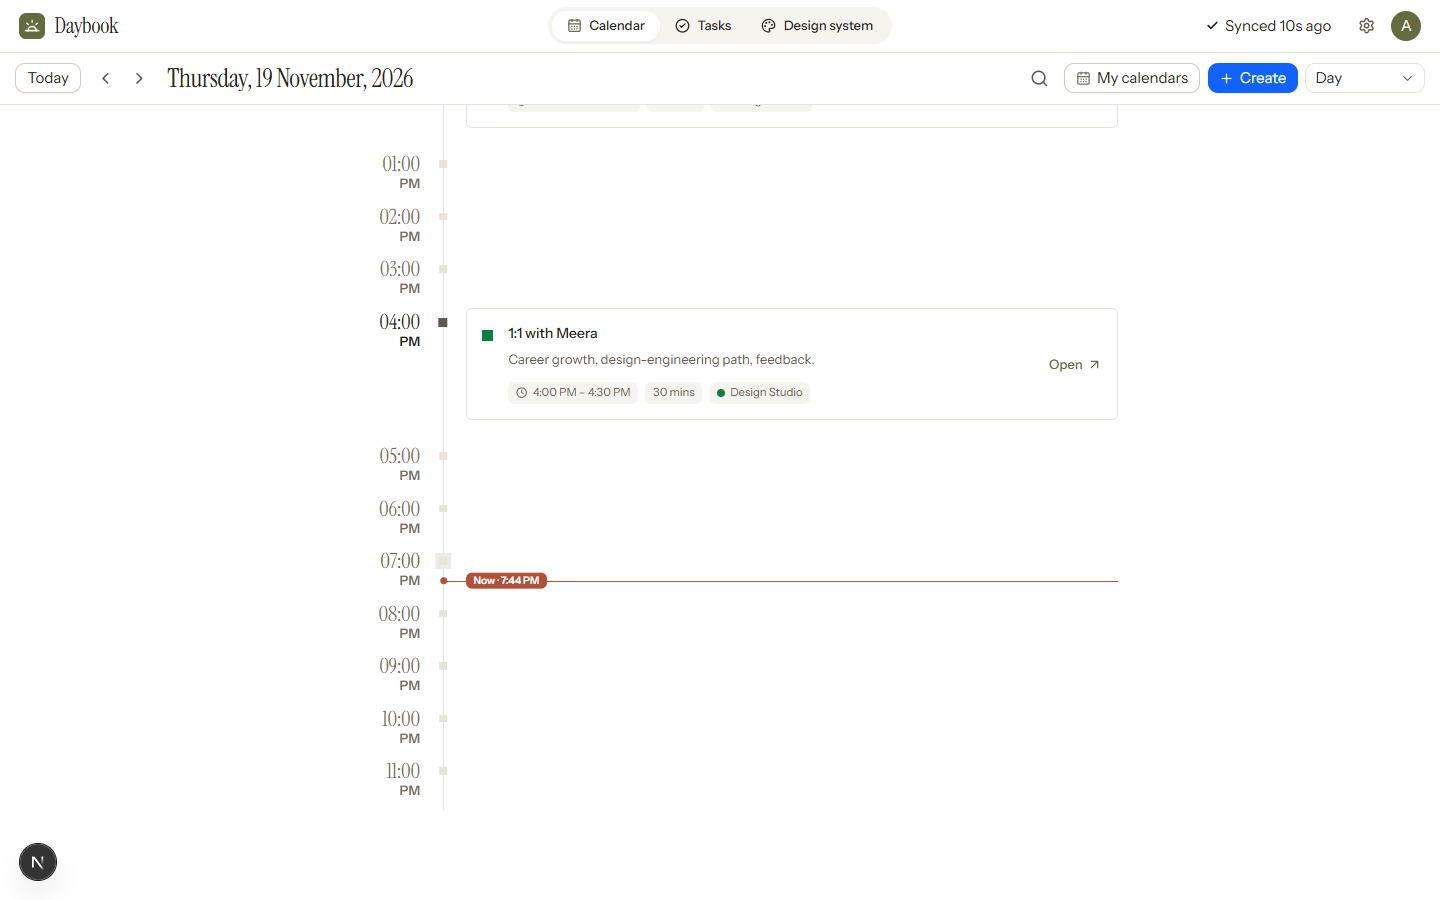
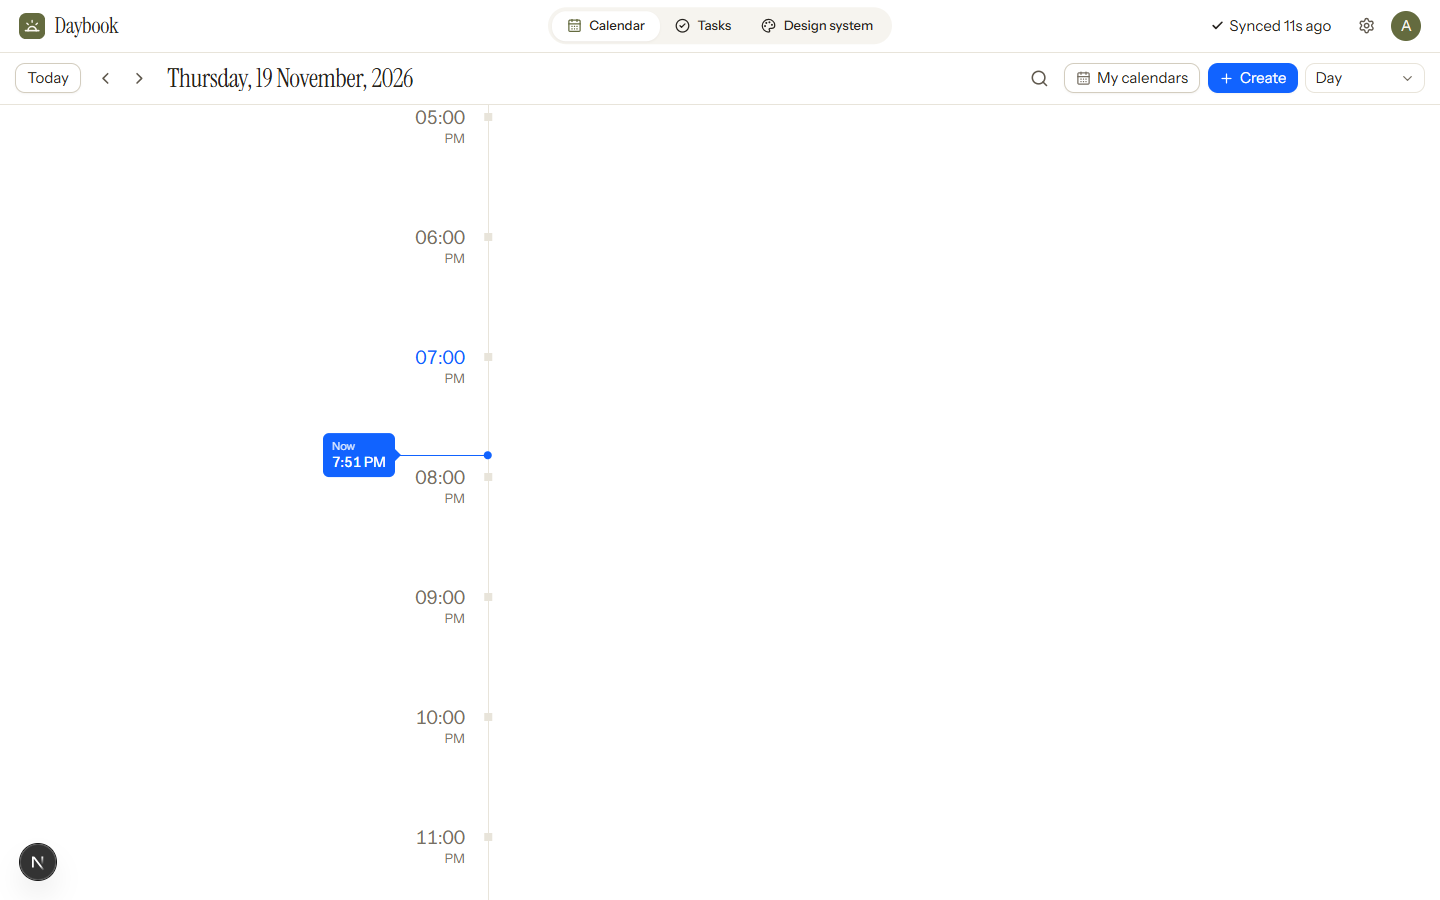
Day timeline: equal hours, UI font, blue Now tag, simpler cards
Every hour is the same height with events at their real time. Hour
labels use the UI font at normal weight. The Now tag is the primary
colour, stacked, and sits left of the rail. Cards drop the Open button
and the Done label.

diff --git a/components/calendar/DayTimeline.tsx b/components/calendar/DayTimeline.tsx
@@ -1,10 +1,10 @@
 "use client";
 import { useEffect, useMemo, useRef, type ReactNode } from "react";
-import { ArrowUpRight, Clock, MapPin } from "lucide-react";
+import { Clock, MapPin } from "lucide-react";
 import { cn } from "@/lib/cn";
 import { zoned } from "@/lib/dates";
 import { useCalendarViews, useFmt, useNow, useToday, useTz } from "@/lib/hooks";
-import { byDay } from "@/lib/layout";
+import { byDay, layoutDay, type Placed } from "@/lib/layout";
 import { newDraft } from "@/lib/store/eventActions";
 import { usePrefs } from "@/lib/store/prefs";
 import { toRect, useUI } from "@/lib/store/ui";
@@ -14,9 +14,13 @@ import { evTitle, evVars } from "./TimeGrid";
 
 const isBanner = (i: EventInstance) => i.allDay || i.startDate !== i.endDate;
 
+/** Every hour is exactly this tall, with or without events. Events sit at their real time inside it. */
+const HOUR = "8rem";
+const at = (minutes: number) => `calc(${HOUR} * ${minutes / 60})`;
+
 /**
- * Day view as a timeline: a rail with a big label for every hour, and tall cards
- * for the events that start in that hour. A "Now" tag sits between the cards.
+ * Day view as a timeline: a rail with a big label for every hour, and outlined cards
+ * placed at the time they start. Hours are all the same height.
  */
 export function DayTimeline({ anchor }: { anchor: DateKey }) {
   const fmt = useFmt();
@@ -31,26 +35,23 @@ export function DayTimeline({ anchor }: { anchor: DateKey }) {
   const openPopover = useUI((s) => s.openEventPopover);
   const openEditor = useUI((s) => s.openEventEditor);
   const scroller = useRef<HTMLDivElement>(null);
+  const body = useRef<HTMLDivElement>(null);
 
   const list = useMemo(() => byDay(instances, [anchor]).get(anchor) ?? [], [instances, anchor]);
   const banners = list.filter(isBanner);
-  const timed = useMemo(
-    () =>
-      list
-        .filter((i) => !isBanner(i))
-        .map((i) => ({ i, startMin: zoned(i.start, tz).minutes }))
-        .sort((a, b) => a.startMin - b.startMin),
-    [list, tz]
-  );
+  const placed = useMemo(() => layoutDay(list.filter((i) => !isBanner(i)), anchor, tz), [list, anchor, tz]);
   const isToday = anchor === today;
   const nowMin = zoned(now, tz).minutes;
   const calName = (id: string) => cals.find((c) => c.id === id)?.name ?? "";
 
   // open on the working day: a little before now when viewing today, otherwise 7 AM
   useEffect(() => {
+    const sc = scroller.current;
+    const el = body.current;
+    if (!sc || !el) return;
     const target = isToday ? Math.max(0, Math.floor(zoned(Date.now(), tz).minutes / 60) - 2) : 7;
-    const el = scroller.current?.querySelector<HTMLElement>(`[data-hour="${target}"]`);
-    if (el && scroller.current) scroller.current.scrollTop = el.offsetTop - 8;
+    const hourPx = el.offsetHeight / 24;
+    sc.scrollTop = el.getBoundingClientRect().top - sc.getBoundingClientRect().top + sc.scrollTop + target * hourPx - 8;
   }, [anchor, isToday, tz]);
 
   const label = (h: number) => {
@@ -58,113 +59,138 @@ export function DayTimeline({ anchor }: { anchor: DateKey }) {
     return { big: `${String(h % 12 || 12).padStart(2, "0")}:00`, small: h < 12 ? "AM" : "PM" };
   };
 
-  const card = (i: EventInstance) => {
+  const hours = Array.from({ length: 24 }, (_, h) => h);
+  const hasEvent = (h: number) => placed.some((p) => p.top < (h + 1) * 60 && p.bottom > h * 60);
+
+  /** An event card. `mins` is its height on the timeline; short events show less. */
+  const Card = ({ i, mins, className, style }: { i: EventInstance; mins: number; className?: string; style?: React.CSSProperties }) => {
     const done = doneIds.has(i.event.id);
     const current = isToday && !i.allDay && i.start <= now && now < i.end;
-    const mins = i.allDay ? 0 : Math.round((i.end - i.start) / 60000);
+    const duration = i.allDay ? 0 : Math.round((i.end - i.start) / 60000);
+    const short = mins < 45;
     return (
       <button
-        key={i.key}
         type="button"
         data-event
         onClick={(e) => openPopover(i, toRect(e.currentTarget.getBoundingClientRect()))}
-        style={evVars(colorOf(i))}
+        style={{ ...evVars(colorOf(i)), ...style }}
         className={cn(
-          "flex w-full items-start gap-4 rounded-sm border bg-surface p-4 text-left outline-none transition-colors hover:bg-surface-2 focus-visible:ring-2 focus-visible:ring-accent",
-          current ? "border-2 border-[var(--ev)]" : "border-border"
+          "overflow-hidden rounded-sm border bg-surface text-left outline-none transition-colors hover:bg-surface-2 focus-visible:ring-2 focus-visible:ring-accent",
+          short ? "flex items-center gap-2.5 px-3" : "p-3.5",
+          current ? "border-2 border-[var(--ev)]" : "border-border",
+          className
         )}
       >
-        <span className="mt-1.5 size-3 shrink-0 bg-[var(--ev)]" />
-        <span className="min-w-0 flex-1">
-          <span className="flex flex-wrap items-center gap-x-3 gap-y-1">
-            <span className={cn(evTitle, done && "line-through")}>{i.title}</span>
-            {done && <span className="text-xs font-semibold uppercase tracking-wide text-success">✓ Done</span>}
-            {current && !done && <span className="text-xs font-semibold uppercase tracking-wide text-text-2">Happening now</span>}
+        {short ? (
+          <>
+            <span className="size-2.5 shrink-0 bg-[var(--ev)]" />
+            <span className={cn("min-w-0 truncate", evTitle, done && "line-through")}>{i.title}</span>
+            <span className="tnum ml-auto shrink-0 text-xs text-text-2">{i.allDay ? "All day" : fmt.timeRange(i.start, i.end)}</span>
+          </>
+        ) : (
+          <span className="flex items-start gap-3">
+            <span className="mt-1.5 size-3 shrink-0 bg-[var(--ev)]" />
+            <span className="min-w-0 flex-1">
+              <span className={cn("block truncate", evTitle, done && "line-through")}>{i.title}</span>
+              {mins >= 90 && i.event.description && <span className="mt-1 line-clamp-2 block text-sm leading-relaxed text-text-2">{i.event.description}</span>}
+              <span className="mt-2.5 flex flex-wrap items-center gap-2 text-xs text-text-2">
+                <Chip icon={<Clock className="size-3" />}>{i.allDay ? "All day" : fmt.timeRange(i.start, i.end)}</Chip>
+                {duration > 0 && <Chip>{duration >= 60 && duration % 60 === 0 ? `${duration / 60} hr` : `${duration} mins`}</Chip>}
+                <Chip dot={colorOf(i)}>{calName(i.calendarId)}</Chip>
+                {i.event.location && <Chip icon={<MapPin className="size-3" />}>{i.event.location}</Chip>}
+              </span>
+            </span>
           </span>
-          {i.event.description && <span className="mt-1.5 line-clamp-2 block text-sm leading-relaxed text-text-2">{i.event.description}</span>}
-          <span className="mt-3 flex flex-wrap items-center gap-2 text-xs text-text-2">
-            <Chip icon={<Clock className="size-3" />}>{i.allDay ? "All day" : fmt.timeRange(i.start, i.end)}</Chip>
-            {mins > 0 && <Chip>{mins >= 60 && mins % 60 === 0 ? `${mins / 60} hr` : `${mins} mins`}</Chip>}
-            <Chip dot={colorOf(i)}>{calName(i.calendarId)}</Chip>
-            {i.event.location && <Chip icon={<MapPin className="size-3" />}>{i.event.location}</Chip>}
-          </span>
-        </span>
-        <span className="hidden shrink-0 items-center gap-1 self-center text-sm font-medium text-accent sm:flex">
-          Open <ArrowUpRight className="size-4" />
-        </span>
+        )}
       </button>
     );
   };
 
-  /** The "Now" marker. In flow between cards, or placed at the minute inside an empty hour. */
-  const nowTag = (topPct?: number) => (
-    <div
-      key="now"
-      className={topPct === undefined ? "relative my-1 h-0" : "absolute inset-x-0 h-0"}
-      style={topPct === undefined ? undefined : { top: `${topPct}%` }}
-      aria-label={`Now, ${fmt.time(now)}`}
-    >
-      <div className="absolute -left-6 right-0 top-0 h-px bg-danger" />
-      <div className="absolute -left-6 top-0 size-2 -translate-x-1/2 -translate-y-1/2 rounded-full bg-danger" />
-      <div className="absolute left-0 top-0 z-[1] -translate-y-1/2 rounded-sm bg-danger px-2 py-0.5 text-[0.6875rem] font-semibold leading-tight text-on-solid">Now · {fmt.time(now)}</div>
-    </div>
+  const cardAt = (p: Placed) => (
+    <Card
+      key={p.inst.key}
+      i={p.inst}
+      mins={p.bottom - p.top}
+      className="absolute"
+      style={{
+        top: at(p.top),
+        height: `calc(${at(p.bottom - p.top)} - 6px)`,
+        left: `${(p.col / p.cols) * 100}%`,
+        width: `calc(${100 / p.cols}% - 8px)`,
+        zIndex: 2 + p.col,
+      }}
+    />
   );
 
   return (
     <div ref={scroller} className="h-full overflow-y-auto overscroll-contain">
       <div className="mx-auto max-w-4xl px-3 pb-24 pt-4 md:px-6">
         {banners.length > 0 && (
-          <Row label={{ big: "All day", small: "" }} hasEvents>
-            <div className="space-y-3">{banners.map((i) => card(i))}</div>
-          </Row>
+          <div className="mb-4 flex">
+            <div className="w-28 shrink-0 pr-6 text-right md:w-44">
+              <div className="tnum text-[1.25rem] font-normal leading-none text-text">All day</div>
+            </div>
+            <div className="w-px shrink-0 bg-border" />
+            <div className="min-w-0 flex-1 space-y-2 pl-6">
+              {banners.map((i) => (
+                <Card key={i.key} i={i} mins={30} />
+              ))}
+            </div>
+          </div>
         )}
-        {Array.from({ length: 24 }, (_, h) => {
-          const here = timed.filter((t) => Math.floor(t.startMin / 60) === h);
-          const isNowHour = isToday && Math.floor(nowMin / 60) === h;
-          const items: ReactNode[] = [];
-          let placed = false;
-          for (const t of here) {
-            if (isNowHour && !placed && nowMin < t.startMin) {
-              items.push(nowTag());
-              placed = true;
-            }
-            items.push(card(t.i));
-          }
-          if (isNowHour && !placed && here.length > 0) items.push(nowTag());
-          return (
-            <Row key={h} hour={h} label={label(h)} hasEvents={here.length > 0} current={isNowHour}>
-              {items.length > 0 ? (
-                <div className="space-y-3">{items}</div>
-              ) : (
-                <div className="relative h-full min-h-12">
-                  <button
-                    type="button"
-                    aria-label={`Add event at ${label(h).big} ${label(h).small}`}
-                    className="block h-full min-h-12 w-full rounded-sm text-left hover:bg-surface-2"
-                    onClick={() => openEditor(newDraft({ day: anchor, startMin: h * 60 }))}
-                  />
-                  {isNowHour && nowTag(((nowMin % 60) / 60) * 100)}
-                </div>
-              )}
-            </Row>
-          );
-        })}
-      </div>
-    </div>
-  );
-}
 
-function Row({ label, hour, hasEvents, current, children }: { label: { big: string; small: string }; hour?: number; hasEvents: boolean; current?: boolean; children: ReactNode }) {
-  return (
-    <div data-hour={hour} className="flex">
-      <div className={cn("w-24 shrink-0 pr-6 pt-1 text-right md:w-32", hasEvents ? "text-text" : "text-text-3")}>
-        <div className={cn("tnum font-display text-[1.4rem] leading-none", current && "text-accent")}>{label.big}</div>
-        {label.small && <div className="mt-0.5 text-sm font-semibold leading-none">{label.small}</div>}
+        <div ref={body} className="relative flex" style={{ height: `calc(${HOUR} * 24)` }}>
+          {/* hour labels, and the "Now" tag to the left of the rail */}
+          <div className="relative w-28 shrink-0 md:w-44">
+            <div aria-hidden>
+              {hours.map((h) => (
+                <div
+                  key={h}
+                  className={cn("absolute right-6 z-[1] -translate-y-1 bg-bg pl-1 text-right", hasEvent(h) ? "text-text" : "text-text-3")}
+                  style={{ top: at(h * 60) }}
+                >
+                  <div className={cn("tnum text-[1.25rem] font-normal leading-none", isToday && Math.floor(nowMin / 60) === h && "text-semantic-primary")}>{label(h).big}</div>
+                  {label(h).small && <div className="mt-1 text-sm font-normal leading-none">{label(h).small}</div>}
+                </div>
+              ))}
+            </div>
+            {isToday && (
+              <div className="pointer-events-none absolute inset-x-0 z-[2] h-0" style={{ top: at(nowMin) }} aria-label={`Now, ${fmt.time(now)}`}>
+                <div className="absolute inset-x-0 top-0 h-px bg-semantic-primary" />
+                <div className="absolute right-0 top-0 size-2 translate-x-1/2 -translate-y-1/2 rounded-full bg-semantic-primary" />
+                <div className="absolute left-0 top-0 -translate-y-1/2 rounded-sm bg-semantic-primary px-2.5 py-1.5 leading-tight text-semantic-on-primary">
+                  <div className="text-xs opacity-90">Now</div>
+                  <div className="tnum text-[0.9375rem] font-medium">{fmt.time(now)}</div>
+                  <span className="absolute -right-1.5 top-1/2 -translate-y-1/2 border-y-[6px] border-l-[6px] border-y-transparent border-l-semantic-primary" />
+                </div>
+              </div>
+            )}
+          </div>
+
+          {/* rail */}
+          <div className="relative w-px shrink-0 bg-border" aria-hidden>
+            {hours.map((h) => (
+              <span key={h} className={cn("absolute left-1/2 size-2 -translate-x-1/2 bg-border", hasEvent(h) && "size-2.5 bg-text-2")} style={{ top: at(h * 60) }} />
+            ))}
+          </div>
+
+          {/* events */}
+          <div
+            className="relative min-w-0 flex-1 cursor-pointer pl-6"
+            onClick={(e) => {
+              if ((e.target as HTMLElement).closest("[data-event]")) return;
+              const r = e.currentTarget.getBoundingClientRect();
+              const minutes = Math.floor((((e.clientY - r.top) / r.height) * 1440) / 30) * 30;
+              openEditor(newDraft({ day: anchor, startMin: Math.max(0, Math.min(1410, minutes)) }));
+            }}
+          >
+            <div className="relative h-full">
+              {placed.map(cardAt)}
+
+            </div>
+          </div>
+        </div>
       </div>
-      <div className="relative w-px shrink-0 bg-border">
-        <span className={cn("absolute left-1/2 top-2.5 -translate-x-1/2", hasEvents ? "size-2.5 bg-text-2" : "size-2 bg-border", current && "bg-accent ring-4 ring-accent-soft")} />
-      </div>
-      <div className={cn("min-w-0 flex-1 pl-6", hasEvents ? "pb-6" : "pb-2")}>{children}</div>
     </div>
   );
 }

diff --git a/docs/changelog/CHANGELOG.md b/docs/changelog/CHANGELOG.md
@@ -11,14 +11,14 @@ A running record of every change requested, newest first, with screenshots. It l
 
 ## 2026-11-19 — Timeline day view (branch `day-view-timeline`, not on main)
 
-**Asked for:** the day view in the style of the reference image (a timeline with a rail, big times and tall cards), with every hour still shown. Kept on its own branch so it can be dropped.
+**Asked for:** the day view in the style of the reference image (a timeline with a rail, big times and outlined cards), with every hour still shown. Kept on its own branch so it can be dropped. Follow-ups: no "Done" label or check mark, the UI font for the times, equal hour spacing, no Open button, a blue Now tag with the time under it, before the rail.
 
 **What changed (Calendar → Day only; week, month and schedule are untouched)**
-- A rail down the left with a big label for every hour (`07:00` with `PM` underneath) and a small square marker. Hours with events are dark; empty hours are faint.
-- Each event is a tall outlined card in the hour it starts: a square in the calendar colour, the title, the description (two lines), and tags for the time range, the duration, the calendar and the location. An "Open" link on the right.
-- The event happening right now has a thick border in its calendar colour and a "Happening now" label. Completed events show the struck-through title with a green "✓ DONE".
-- A red "Now · 7:44 PM" pill sits on a line at the current minute, between the cards.
-- Clicking an empty hour opens a new event at that hour. All-day events sit in an "All day" row at the top.
+- A rail with a label for every hour (`07:00`, `PM` underneath) in the normal UI font and weight, with a small square marker. Every hour is exactly the same height, with or without events.
+- Events are outlined cards placed at their real time inside the hour, sized by duration. Short events show one line (title and time); longer ones show the title, the description when there is room, and tags for time range, duration, calendar and location. Overlapping events sit side by side.
+- The event happening now has a thick border in its calendar colour. Completed events keep the struck-through title, with no label.
+- A blue "Now" tag (the primary colour) with the time stacked under it sits to the left of the rail, with a short line to a dot on the rail.
+- Clicking an empty spot opens a new event at that time (30-minute steps). All-day events sit in an "All day" row at the top.
 - Not in this version: dragging to create or move events in the day view.
 
 **Files:** `components/calendar/DayTimeline.tsx` (new), `components/calendar/CalendarScreen.tsx`
